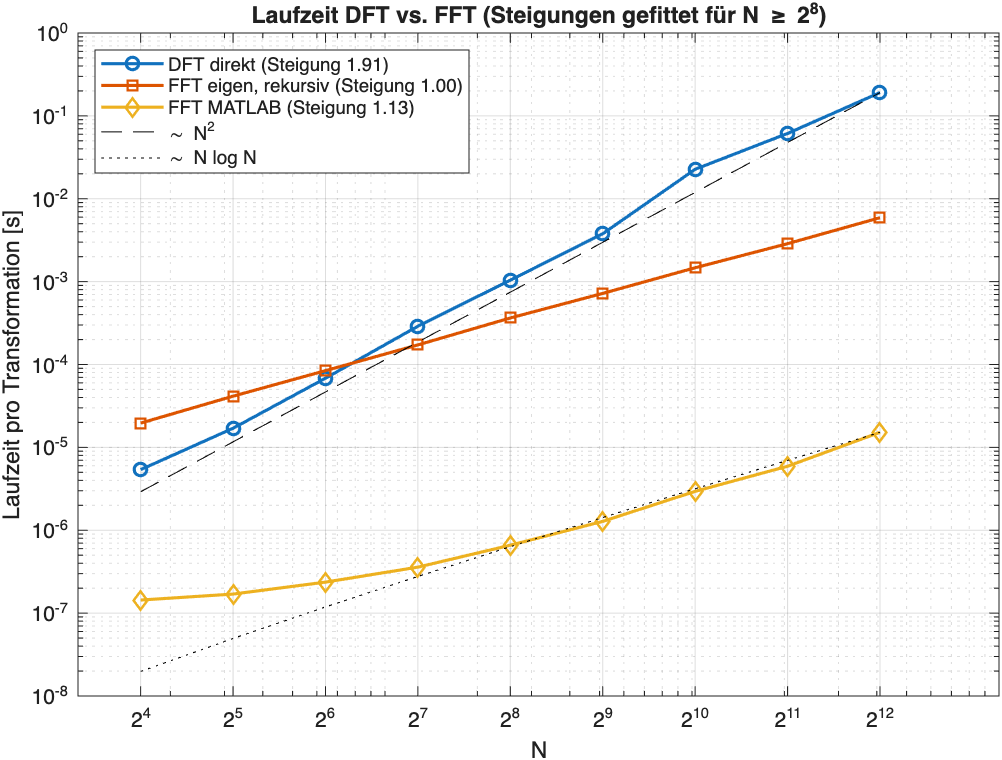
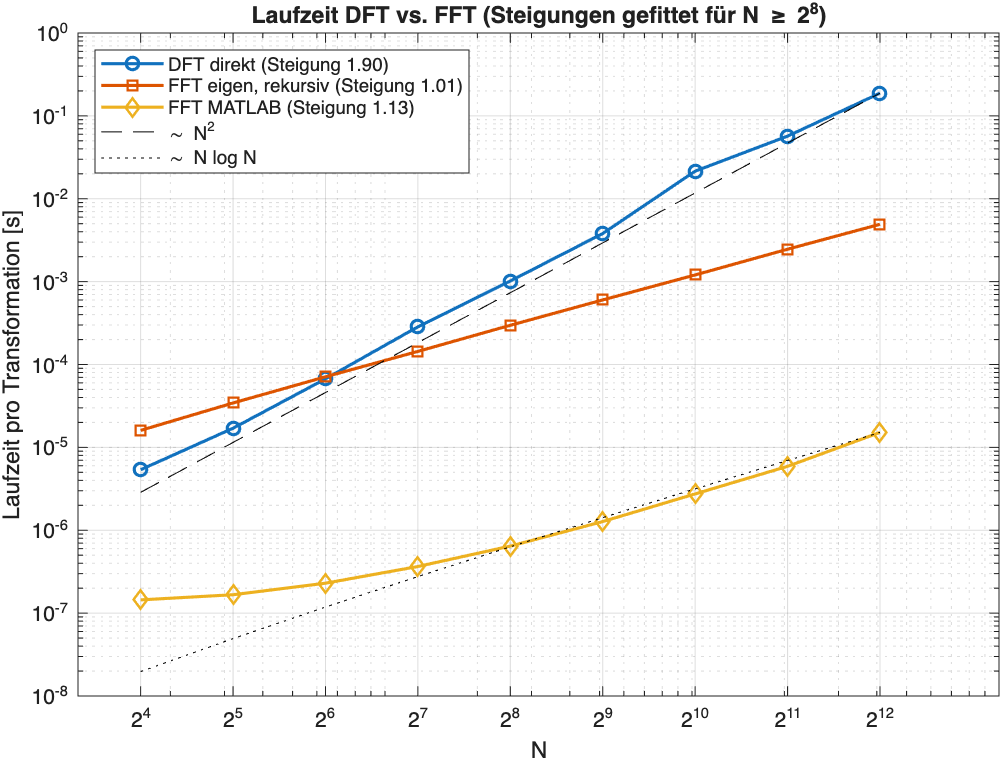
using fft recursive algorighm from script

diff --git a/fft_rekursiv.m b/fft_rekursiv.m
@@ -1,20 +1,24 @@
-function X = fft_rekursiv(x)
-% FFT_REKURSIV  Radix-2-FFT nach Cooley-Tukey (rekursiv), O(N log N).
-% Die Länge von x muss eine Zweierpotenz sein.
+function alpha = fft_rekursiv(f)
+% FFT_REKURSIV  Schnelle Fourier-Transformation nach Algorithmus 1.1 im Skript
+% (Lemma 1.21), rekursiv, O(N log N). Berechnet alpha = F_N * f (wie fft).
+% Die Länge N von f muss eine Zweierpotenz sein (N = 2^p, p >= 1).
 %
-% Idee: DFT der Länge N = zwei DFTs der Länge N/2 (gerade / ungerade Indizes)
-%   X_k       = G_k + w^k * U_k
-%   X_{k+N/2} = G_k - w^k * U_k,     w = exp(-2*pi*i/N),  k = 0..N/2-1
+% Idee (Lemma 1.21): eine DFT der Länge N -> zwei DFTs der Länge N/2
+%   gerade Einträge:   alpha_{2m}   = DFT_{N/2}( f_l + f_{l+N/2} )
+%   ungerade Einträge: alpha_{2m+1} = DFT_{N/2}( (f_l - f_{l+N/2}) * w^l ),  w = exp(-2*pi*i/N)
 
-x = x(:);
-N = length(x);
-if N == 1
-    X = x;          % DFT der Länge 1 ist der Wert selbst
+f = f(:);
+N = length(f);
+if N == 2
+    alpha = [f(1) + f(2); f(1) - f(2)];     % F_2 = [1 1; 1 -1]
     return
 end
 
-G = fft_rekursiv(x(1:2:end));      % x_0, x_2, x_4, ...
-U = fft_rekursiv(x(2:2:end));      % x_1, x_3, x_5, ...
-w = exp(-2i * pi * (0:N/2-1)' / N); % Twiddle-Faktoren
-X = [G + w .* U; G - w .* U];
+w = exp(-2i * pi * (0:N/2-1)' / N);         % Potenzen der Einheitswurzel omega_N
+f_plus  = f(1:N/2) + f(N/2+1:N);
+f_minus = (f(1:N/2) - f(N/2+1:N)) .* w;
+
+alpha = zeros(N, 1);
+alpha(1:2:N) = fft_rekursiv(f_plus);         % alpha_0, alpha_2, alpha_4, ...
+alpha(2:2:N) = fft_rekursiv(f_minus);        % alpha_1, alpha_3, alpha_5, ...
 end

diff --git a/ERKLAERUNG_RU.md b/ERKLAERUNG_RU.md
@@ -1,5 +1,7 @@
 # PP1 OFDM: подробное объяснение (для себя, к тестату)
 
+Более полная интерактивная версия с демо, карточками и квизом: `OFDM_lernen.html` в этой папке.
+
 Формулы записаны в LaTeX. В VS Code открой файл и нажми `Cmd+Shift+V` (Markdown Preview), тогда они отрендерятся.
 
 ---
@@ -162,12 +164,10 @@ X3_ent = qam_entscheiden(X3); % решение: ближайшая точка 16
 ### Почему DFT — это $O(N^2)$
 $X_k=\sum_{n=0}^{N-1}x_n w^{kn}$, $w=e^{-2\pi i/N}$. Нужно $N$ результатов, каждый — сумма $N$ слагаемых. Итого $N^2$ умножений. В `dft_direkt.m` это цикл по $k$, внутри которого векторно считается сумма по $n$.
 
-### Почему FFT — это $O(N\log N)$ (Cooley-Tukey, `fft_rekursiv.m`)
-Разбиваем сумму на чётные и нечётные $n$:
-$$X_k = \underbrace{\sum_{m} x_{2m}\,(w^2)^{km}}_{G_k\ (\text{DFT длины }N/2)} + w^k\underbrace{\sum_m x_{2m+1}\,(w^2)^{km}}_{U_k\ (\text{DFT длины }N/2)}.$$
-$G$ и $U$ периодичны с периодом $N/2$, а $w^{k+N/2} = -w^k$. Поэтому
-$$X_k = G_k + w^k U_k,\qquad X_{k+N/2} = G_k - w^k U_k \quad (k=0..N/2-1).$$
-Это «бабочка» (*Butterfly*). Одна DFT длины $N$ = две DFT длины $N/2$ плюс $N$ операций. Получаем $T(N)=2T(N/2)+cN$: $\log_2 N$ уровней по $N$ операций, итого $N\log_2 N$. В коде это последняя строка `X = [G + w.*U; G - w.*U]`.
+### Почему FFT — это $O(N\log N)$ (алгоритм 1.1 из скрипта, `fft_rekursiv.m`)
+Лемма 1.21: чётные и нечётные **выходы** считаются двумя DFT половинной длины ($\omega = e^{-2\pi i/N}$):
+$$\alpha_{2m} = \mathrm{DFT}_{N/2}\big(f_l + f_{l+N/2}\big)_m,\qquad \alpha_{2m+1} = \mathrm{DFT}_{N/2}\big((f_l - f_{l+N/2})\,\omega^l\big)_m .$$
+Работает, потому что $\omega_N^2 = \omega_{N/2}$ и $\omega_N^{N/2} = -1$. Одна DFT длины $N$ = две DFT длины $N/2$ плюс $\tfrac32 N$ операций. Получаем $\log_2 N$ уровней, итого $C(N) = \tfrac32 N(\log_2 N - 1) + N = O(N\log N)$. В коде это `f_plus`, `f_minus` и два рекурсивных вызова, база рекурсии $N = 2$, как в скрипте.
 
 ### Как устроен эксперимент
 * $N = 2^4..2^{12}$, на вход случайный комплексный вектор.
@@ -180,14 +180,14 @@ $$X_k = G_k + w^k U_k,\qquad X_{k+N/2} = G_k - w^k U_k \quad (k=0..N/2-1).$$
 
 | | все N | N ≥ 256 | теория |
 |---|---|---|---|
-| DFT | 1.93 | **1.91** | 2 |
-| своя FFT | 1.03 | **1.00** | ~1.1 |
-| MATLAB `fft` | 0.86 | **1.13** | $1+1/\ln N \approx 1.12..1.18$ |
+| DFT | 1.93 | **1.90** | 2 |
+| своя FFT | 1.03 | **1.01** | ~1.1 |
+| MATLAB `fft` | 0.85 | **1.13** | $1+1/\ln N \approx 1.12..1.18$ |
 
 Как это объяснять:
 * Наклон $N\log N$ в log-log не равен ровно 1: $\frac{d\ln(N\ln N)}{d\ln N} = 1 + \frac1{\ln N}$. Для наших $N$ это ≈1.12–1.18. MATLAB-`fft` (1.13) в это попадает.
 * У `fft` по всем $N$ наклон 0.86, меньше 1. При малых $N$ время в основном уходит на **накладные расходы вызова** (константа ~0.14 мкс), а не на вычисления, и кривая слева почти горизонтальная. Поэтому наклон фитим только по большим $N$.
-* У своей рекурсивной FFT наклон ≈1.0: у неё $2N-1$ вызовов функции, каждый с фиксированной ценой в MATLAB, и этот линейный вклад перекрывает множитель $\log N$.
+* У своей рекурсивной FFT наклон ≈1.0: у неё $N-1$ вызовов функции, каждый с фиксированной ценой в MATLAB, и этот линейный вклад перекрывает множитель $\log N$.
 * **Точка пересечения:** при $N \le 64$ моя FFT **медленнее** DFT. Асимптотика — это ещё не всё, важны и константы. Поэтому настоящие FFT-библиотеки на маленьких кусках не рекурсируют до $N=1$, а используют готовые оптимизированные блоки.
 * При $N=4096$ DFT занимает ~0.19 с, `fft` ~15 мкс, то есть разница ~12 000×. Теоретически отношение $N^2/(N\log_2 N) = 4096/12 \approx 341$, остальное даёт разница «интерпретируемый MATLAB против оптимизированного C с SIMD».
 
@@ -196,9 +196,9 @@ $$X_k = G_k + w^k U_k,\qquad X_{k+N/2} = G_k - w^k U_k \quad (k=0..N/2-1).$$
 
 | Система | N | нужно | DFT | своя FFT | MATLAB fft |
 |---|---|---|---|---|---|
-| Проект | 16 | — | ~180 000 | ~50 000 | ~7 000 000 |
-| LTE | 2048 | 14 000 | **~16** | ~350 | **~170 000** (×12) |
-| 5G NR | 4096 | 28 000 | **~5** | ~170 | **~65 000** (×2.3) |
+| Проект | 16 | — | ~186 000 | ~62 000 | ~6 900 000 |
+| LTE | 2048 | 14 000 | **~18** | ~400 | **~170 000** (×12) |
+| 5G NR | 4096 | 28 000 | **~5** | ~200 | **~66 000** (×2.4) |
 
 (Цифры немного плавают от запуска к запуску и зависят от компьютера.)
 
@@ -208,8 +208,8 @@ $$X_k = G_k + w^k U_k,\qquad X_{k+N/2} = G_k - w^k U_k \quad (k=0..N/2-1).$$
 * «Используемые поднесущие»: в LTE занято 1200 из 2048 ($1200\cdot 15\text{ кГц} = 18$ МГц из 20 МГц полосы). Остальные — защитные полосы по краям, они пустые.
 
 **Вывод:**
-* С прямой DFT не хватает ни для чего: для LTE нужно 14 000, а есть 16, это в ~900 раз меньше. Даже если считать DFT **только для 1200 используемых поднесущих** (последний столбец вывода скрипта), получается ~28 символов/с, а нужно 14 000. Помогает только смена алгоритма.
-* С FFT даже MATLAB на одном ядре ноутбука укладывается: LTE с запасом ×12, 5G ×2.3. В реальности нужно ещё многое: несколько антенн (MIMO, по FFT на антенну), декодирование канала и т.д. Поэтому в базовых станциях и телефонах FFT считает специальное железо (ASIC/FPGA/DSP).
+* С прямой DFT не хватает ни для чего: для LTE нужно 14 000, а есть 18, это в ~800 раз меньше. Даже если считать DFT **только для 1200 используемых поднесущих** (последний столбец вывода скрипта), получается ~30 символов/с, а нужно 14 000. Помогает только смена алгоритма.
+* С FFT даже MATLAB на одном ядре ноутбука укладывается: LTE с запасом ×12, 5G ×2.4. В реальности нужно ещё многое: несколько антенн (MIMO, по FFT на антенну), декодирование канала и т.д. Поэтому в базовых станциях и телефонах FFT считает специальное железо (ASIC/FPGA/DSP).
 
 ---
 
@@ -284,9 +284,9 @@ $$\frac{\|\Delta x\|}{\|x\|}\le\kappa\,\frac{\|\Delta y\|}{\|y\|}.$$
 4. **Почему 4 пилотов хватает для $h$?** $h$ имеет 4 неизвестных. Пилоты с шагом 4 дают ровно DFT длины 4 от $h$, и $h$ = `ifft` длины 4. Для эха длиннее 4 был бы aliasing, и нужны были бы ещё пилоты.
 5. **Почему $h$ вещественный?** Эхо физически — это вещественное затухание и задержка, а мнимая часть получилась численно ровно 0.
 6. **Что делает `fft(h,16)`?** Дополняет $h$ нулями до 16 и считает DFT — значения канала на всех 16 поднесущих.
-7. **Почему DFT $O(N^2)$, FFT $O(N\log N)$?** См. раздел 5 (разбиение на чётные и нечётные, бабочка, $\log_2N$ уровней).
+7. **Почему DFT $O(N^2)$, FFT $O(N\log N)$?** См. раздел 5 (лемма 1.21: чётные и нечётные выходы через две DFT половинной длины, $\log_2N$ уровней).
 8. **Почему наклоны не ровно 2 и 1?** Накладные расходы при малых $N$, кэш, и у $N\log N$ наклон $1+1/\ln N$.
-9. **Хватит ли DFT для LTE?** Нет: ~16 символов/с вместо 14 000. FFT даёт ~170 000.
+9. **Хватит ли DFT для LTE?** Нет: ~18 символов/с вместо 14 000. FFT даёт ~170 000.
 10. **Почему $\kappa=\max|\hat h|/\min|\hat h|$?** $C$ диагонализуется унитарной DFT, сингулярные числа $=|\hat h_k|$.
 11. **Когда κ большое?** Когда $\hat h_k\approx0$ на какой-то поднесущей (сильное эхо гасит сигнал). Для $(1,a)$: $\kappa=(1-a)/(1+a)$, при $a=-1$ матрица вырождена.
 12. **Что это значит при шуме?** Шум на слабых поднесущих усиливается в $1/|\hat h_k|$ раз, и в худшем случае относительная ошибка растёт в κ раз.

diff --git a/README.md b/README.md
@@ -24,10 +24,11 @@ Die Plots landen in `plots/`.
 | `lese_datensatz.m` | CSV (Real-/Imaginärteil) → komplexer Spaltenvektor |
 | `qam_entscheiden.m` | Rundet auf das nächste 16-QAM-Symbol |
 | `dft_direkt.m` | DFT nach Definition, O(N²) |
-| `fft_rekursiv.m` | Radix-2-FFT (Cooley-Tukey), O(N log N) |
+| `fft_rekursiv.m` | FFT nach Algorithmus 1.1 im Skript (Lemma 1.21), O(N log N) |
 | `kondition.m` | κ₂(C) = max\|ĥ_k\| / min\|ĥ_k\| |
 | `laufzeit.m` | Zeitmessung mit Wiederholungen (Minimum aus 5 Messungen) |
 | `speichere_plot.m` | Plot als PNG speichern |
+| `OFDM_lernen.html` | Lernseite (Russisch) mit Demos, Karteikarten und Quiz |
 
 ## Ergebnisse
 
@@ -36,6 +37,6 @@ Die Plots landen in `plots/`.
 - **1c:** Entzerrt mit Xₖ = Yₖ / Hₖ, alle 16 Symbole liegen klar auf dem 16-QAM-Raster:
   `1+3i, 3−3i, −3+3i, −3−1i, 3−3i, 3−1i, 3+3i, −3+3i, −3+1i, −1−3i, 3+3i, 3+1i, −3−3i, 1−3i, −3−3i, −1+3i` (k = 0…15)
 - **2:** Steigungen (N ≥ 256): DFT ≈ 1.9, MATLAB-FFT ≈ 1.13 (Theorie 1 + 1/ln N ≈ 1.12–1.18), eigene FFT ≈ 1.0 (Aufruf-Overhead).
-  Mit direkter DFT schafft ein Kern nur ~16 Symbole/s bei N = 2048 (LTE braucht 14 000), mit `fft` ~170 000.
+  Mit direkter DFT schafft ein Kern nur ~18 Symbole/s bei N = 2048 (LTE braucht 14 000), mit `fft` ~170 000.
 - **3:** κ(h aus 1b) = 3.34. Für h = (1, a) gilt κ = (1 − a)/(1 + a) → ∞ für a → −1 (bei a = −1 ist ĥ₀ = 0, C singulär).
   Rauschen wird auf Unterträgern mit kleinem |ĥₖ| um 1/|ĥₖ| verstärkt; relativ gilt ‖Δx‖/‖x‖ ≤ κ ‖Δy‖/‖y‖.
